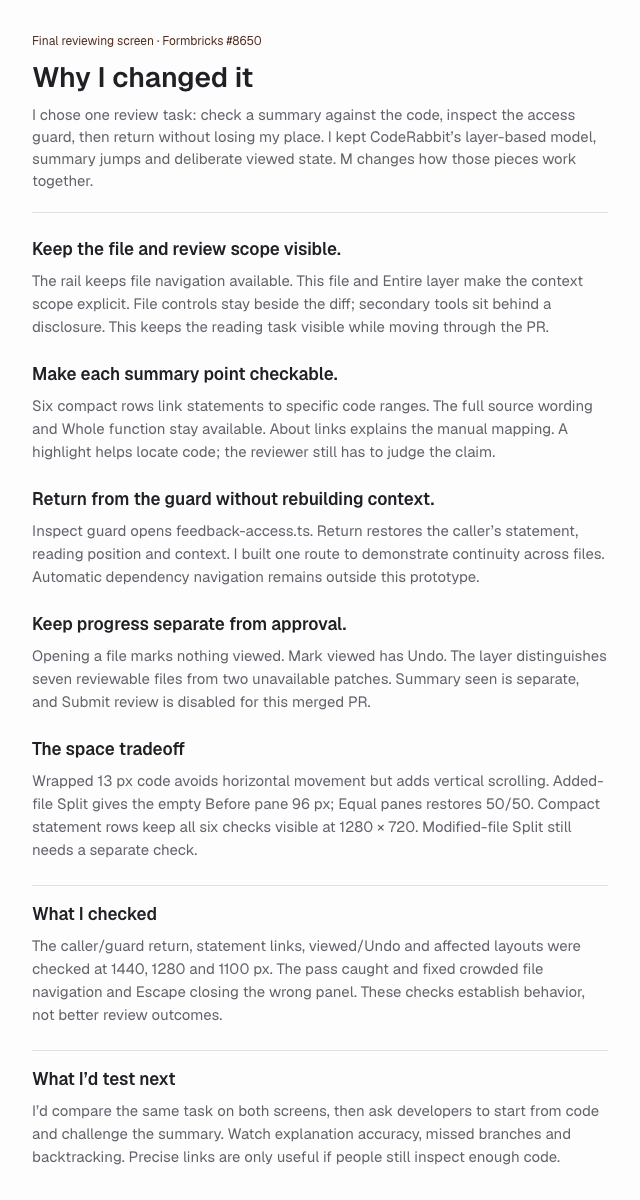
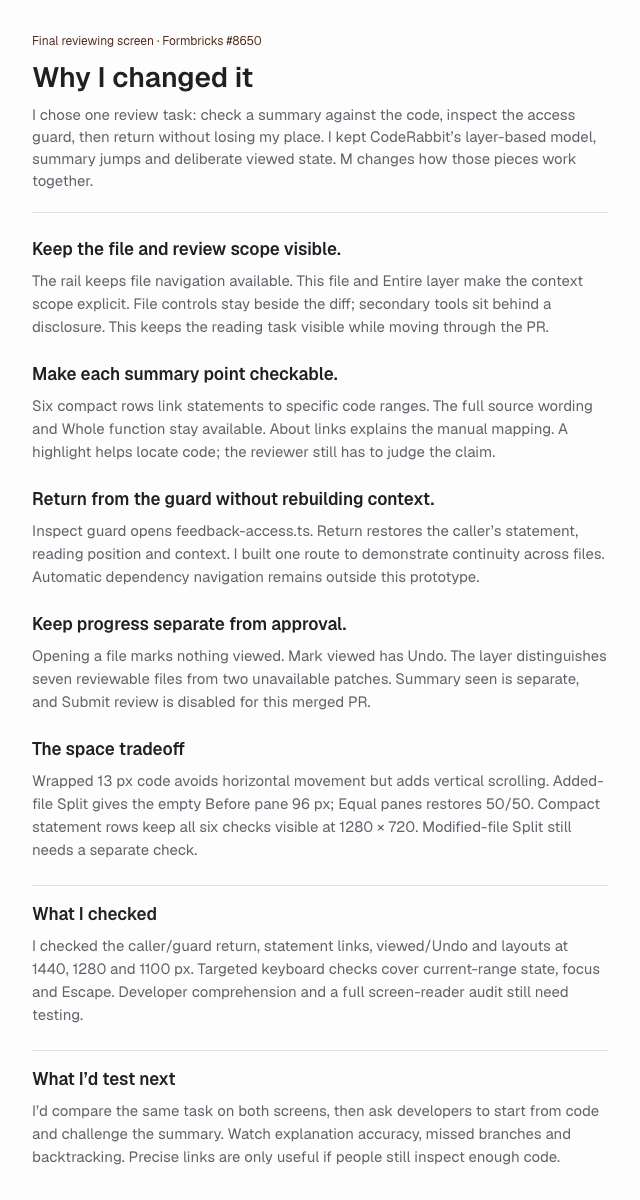
Expose linked code selection and reconcile submission evidence

Changed region(s): [[0.0312, 0.7708, 0.9375, 0.8633]]

diff --git a/dist/rationale.html b/dist/rationale.html
@@ -1,1 +1,1 @@
-<!doctype html><html lang="en"><head><meta charset="utf-8"><meta name="viewport" content="width=device-width,initial-scale=1"><title>Change Stack — Design rationale</title><link rel="stylesheet" href="styles.css?v=brand-20261019"><style>body{display:block;overflow:auto;height:auto;min-width:0;background:white}article{max-width:850px;margin:64px auto;padding:0 32px 48px}h1{white-space:normal;font-size:32px;line-height:1.2;letter-spacing:-.03em;font-weight:600}h2{font-size:18px;margin:28px 0 12px}p{margin:12px 0;line-height:1.6;color:#65616a}table{border-collapse:collapse;width:100%;font-size:14px;margin:20px 0}th{text-align:left;color:#211f24;font-weight:500;background:#faf8fb}td,th{padding:14px 16px;border-bottom:1px solid #e3e0e7;vertical-align:top}td:first-child{width:36%;font-weight:500;color:#211f24}nav{margin-bottom:24px}.byline{font-size:13px;color:#65616a;margin-top:16px}.small{font-size:12px}@media print{article{margin:0;padding:0}nav{display:none}h1{font-size:24px}body{font-size:12px}table{font-size:11px}td,th{padding:10px}h2{font-size:15px;margin:18px 0 8px}@page{size:A4;margin:18mm}}</style><link rel="stylesheet" href="brand.css?v=brand-20261019"></head><body><article><nav><a href="index.html">Prototype</a> · <a href="https://app.paper.design/file/01M5AQACJZP42ZGTRX7GF9ERE7/p-1-0/1YS-0">Paper design</a> · <a href="comparison.html">Original and redesign</a> · <a href="rationale.pdf">PDF</a></nav><h1>What I changed in Change Stack</h1><p class="byline">CodeRabbit Change Stack · Formbricks #8650 · Parth Pawar</p><p>I chose one review task: check a summary against the code, inspect the access guard, then return without losing my place. I kept CodeRabbit’s layer-based model, summary jumps and deliberate viewed state. M changes how those pieces work together.</p><table><thead><tr><th>What I focused on</th><th>Decision and reason</th></tr></thead><tbody><tr><td>Keep the file and review scope visible.</td><td>The rail keeps file navigation available. This file and Entire layer make the context scope explicit. File controls stay beside the diff; secondary tools sit behind a disclosure. This keeps the reading task visible while moving through the PR.</td></tr><tr><td>Make each summary point checkable.</td><td>Six compact rows link statements to specific code ranges. The full source wording and Whole function stay available. About links explains the manual mapping. A highlight helps locate code; the reviewer still has to judge the claim.</td></tr><tr><td>Return from the guard without rebuilding context.</td><td>Inspect guard opens feedback-access.ts. Return restores the caller’s statement, reading position and context. I built one route to demonstrate continuity across files. Automatic dependency navigation remains outside this prototype.</td></tr><tr><td>Keep progress separate from approval.</td><td>Opening a file marks nothing viewed. Mark viewed has Undo. The layer distinguishes seven reviewable files from two unavailable patches. Summary seen is separate, and Submit review is disabled for this merged PR.</td></tr></tbody></table><h2>The space tradeoff</h2><p>Wrapped 13 px code avoids horizontal movement but adds vertical scrolling. Added-file Split gives the empty Before pane 96 px; Equal panes restores 50/50. Compact statement rows keep all six checks visible at 1280 × 720. Modified-file Split still needs a separate check.</p><h2>What I checked</h2><p>The caller/guard return, statement links, viewed/Undo and affected layouts were checked at 1440, 1280 and 1100 px. The pass caught and fixed crowded file navigation and Escape closing the wrong panel. These checks establish behavior, not better review outcomes.</p><h2>What I’d test next</h2><p>I’d compare the same task on both screens, then ask developers to start from code and challenge the summary. Watch explanation accuracy, missed branches and backtracking. Precise links are only useful if people still inspect enough code.</p><p class="small">Formbricks #8650 at the out-of-date 23cdac2 snapshot. Seven of 52 diffs are included. The comparison uses final M with the same imports and six source points; the original capture is untouched. Full file and Captured ranges do not recreate semantic diffs. Nothing is sent.</p></article></body></html>
+<!doctype html><html lang="en"><head><meta charset="utf-8"><meta name="viewport" content="width=device-width,initial-scale=1"><title>Change Stack — Design rationale</title><link rel="stylesheet" href="styles.css?v=brand-20261019"><style>body{display:block;overflow:auto;height:auto;min-width:0;background:white}article{max-width:850px;margin:64px auto;padding:0 32px 48px}h1{white-space:normal;font-size:32px;line-height:1.2;letter-spacing:-.03em;font-weight:600}h2{font-size:18px;margin:28px 0 12px}p{margin:12px 0;line-height:1.6;color:#65616a}table{border-collapse:collapse;width:100%;font-size:14px;margin:20px 0}th{text-align:left;color:#211f24;font-weight:500;background:#faf8fb}td,th{padding:14px 16px;border-bottom:1px solid #e3e0e7;vertical-align:top}td:first-child{width:36%;font-weight:500;color:#211f24}nav{margin-bottom:24px}.byline{font-size:13px;color:#65616a;margin-top:16px}.small{font-size:12px}@media print{article{margin:0;padding:0}nav{display:none}h1{font-size:24px}body{font-size:12px}table{font-size:11px}td,th{padding:10px}h2{font-size:15px;margin:18px 0 8px}@page{size:A4;margin:18mm}}</style><link rel="stylesheet" href="brand.css?v=brand-20261019"></head><body><article><nav><a href="index.html">Prototype</a> · <a href="https://app.paper.design/file/01M5AQACJZP42ZGTRX7GF9ERE7/p-1-0/1YS-0">Paper design</a> · <a href="comparison.html">Original and redesign</a> · <a href="rationale.pdf">PDF</a></nav><h1>What I changed in Change Stack</h1><p class="byline">CodeRabbit Change Stack · Formbricks #8650 · Parth Pawar</p><p>I chose one review task: check a summary against the code, inspect the access guard, then return without losing my place. I kept CodeRabbit’s layer-based model, summary jumps and deliberate viewed state. M changes how those pieces work together.</p><table><thead><tr><th>What I focused on</th><th>Decision and reason</th></tr></thead><tbody><tr><td>Keep the file and review scope visible.</td><td>The rail keeps file navigation available. This file and Entire layer make the context scope explicit. File controls stay beside the diff; secondary tools sit behind a disclosure. This keeps the reading task visible while moving through the PR.</td></tr><tr><td>Make each summary point checkable.</td><td>Six compact rows link statements to specific code ranges. The full source wording and Whole function stay available. About links explains the manual mapping. A highlight helps locate code; the reviewer still has to judge the claim.</td></tr><tr><td>Return from the guard without rebuilding context.</td><td>Inspect guard opens feedback-access.ts. Return restores the caller’s statement, reading position and context. I built one route to demonstrate continuity across files. Automatic dependency navigation remains outside this prototype.</td></tr><tr><td>Keep progress separate from approval.</td><td>Opening a file marks nothing viewed. Mark viewed has Undo. The layer distinguishes seven reviewable files from two unavailable patches. Summary seen is separate, and Submit review is disabled for this merged PR.</td></tr></tbody></table><h2>The space tradeoff</h2><p>Wrapped 13 px code avoids horizontal movement but adds vertical scrolling. Added-file Split gives the empty Before pane 96 px; Equal panes restores 50/50. Compact statement rows keep all six checks visible at 1280 × 720. Modified-file Split still needs a separate check.</p><h2>What I checked</h2><p>I checked the caller/guard return, statement links, viewed/Undo and layouts at 1440, 1280 and 1100 px. Targeted keyboard checks cover current-range state, focus and Escape. Developer comprehension and a full screen-reader audit still need testing.</p><h2>What I’d test next</h2><p>I’d compare the same task on both screens, then ask developers to start from code and challenge the summary. Watch explanation accuracy, missed branches and backtracking. Precise links are only useful if people still inspect enough code.</p><p class="small">Formbricks #8650 at the out-of-date 23cdac2 snapshot. Seven of 52 diffs are included. The comparison uses final M with the same imports and six source points; the original capture is untouched. Full file and Captured ranges do not recreate semantic diffs. Nothing is sent.</p></article></body></html>

diff --git a/dist/app.js b/dist/app.js
@@ -126,7 +126,7 @@ function syncScope(){
 }
 function summaryCard(s,f){
  const selected=state.summary===s.id&&state.file===f.id,compact=state.scope==='layer',full=selected&&!compact&&s.sourceDetails;
- return `<div class="summary-card ${compact?'compact-summary':''}"><button class="summary-item" data-summary="${s.id}" aria-pressed="${selected}"><span class="range">Lines ${s.range} · ${s.complexity}</span><strong>${esc(s.title)}</strong>${full||compact?'':`<span class="summary-body">${esc(s.body)}</span>`}</button>${full?`<div class="statement-list">${anchorsFor(s).map((a,i)=>`<div class="source-statement ${anchorFor(s)?.key===a.key?'is-active':''}"><button class="statement-action source-anchor" data-evidence-summary="${s.id}" data-evidence-key="${a.key}" aria-label="${esc(a.label)}, ${lineLabel(a)}"><span>${esc(a.label)}</span><span class="statement-range">${lineLabel(a)}</span></button>${i===0?'<button class="text-link guard-link" data-action="inspect-guard">Inspect guard in feedback-access.ts</button>':''}</div>`).join('')}</div><details class="source-summary" data-detail-summary="${s.id}" ${state.openDetails.has(s.id)?'open':''}><summary>Read full source summary</summary><p>${esc(s.sourceDetails.intro)}</p><ul>${s.sourceDetails.points.map(p=>`<li>${esc(p)}</li>`).join('')}</ul></details>`:''}${selected&&!compact?anchorControls(s):''}${compact?'':`<button class="summary-seen text-link" data-seen="${s.id}" aria-pressed="${state.seen.has(s.id)}">${state.seen.has(s.id)?'Seen · undo':'Mark seen'}</button>`}</div>`
+ return `<div class="summary-card ${compact?'compact-summary':''}"><button class="summary-item" data-summary="${s.id}" aria-pressed="${selected}"><span class="range">Lines ${s.range} · ${s.complexity}</span><strong>${esc(s.title)}</strong>${full||compact?'':`<span class="summary-body">${esc(s.body)}</span>`}</button>${full?`<div class="statement-list">${anchorsFor(s).map((a,i)=>`<div class="source-statement ${anchorFor(s)?.key===a.key?'is-active':''}"><button class="statement-action source-anchor" data-evidence-summary="${s.id}" data-evidence-key="${a.key}" aria-current="${anchorFor(s)?.key===a.key?'location':'false'}" aria-label="${esc(a.label)}, ${lineLabel(a)}"><span>${esc(a.label)}</span><span class="statement-range">${lineLabel(a)}</span></button>${i===0?'<button class="text-link guard-link" data-action="inspect-guard">Inspect guard in feedback-access.ts</button>':''}</div>`).join('')}</div><details class="source-summary" data-detail-summary="${s.id}" ${state.openDetails.has(s.id)?'open':''}><summary>Read full source summary</summary><p>${esc(s.sourceDetails.intro)}</p><ul>${s.sourceDetails.points.map(p=>`<li>${esc(p)}</li>`).join('')}</ul></details>`:''}${selected&&!compact?anchorControls(s):''}${compact?'':`<button class="summary-seen text-link" data-seen="${s.id}" aria-pressed="${state.seen.has(s.id)}">${state.seen.has(s.id)?'Seen · undo':'Mark seen'}</button>`}</div>`
 }
 function renderSummaries(){
  syncScope();const f=currentFile(),list=$('#summary-list'),files=state.layer===0?(state.scope==='layer'?data.files:[f]):[],active=document.activeElement?.dataset,restore=active?.summary||active?.seen;
@@ -136,7 +136,7 @@ function renderSummaries(){
 }
 function anchorControls(summary){
  const anchors=anchorsFor(summary);
- return `<div class="summary-anchors">${!summary.sourceDetails?anchors.map(a=>`<button class="text-link source-anchor" data-evidence-summary="${summary.id}" data-evidence-key="${a.key}">${esc(a.label)} · ${lineLabel(a)}</button>`).join(''):''}<button class="text-link" data-evidence-summary="${summary.id}" data-evidence-key="whole">Whole ${summary.id.startsWith('0-')?'function':'summary range'} · L${summary.range}</button><button class="text-link" data-evidence-summary="${summary.id}" data-evidence-key="start">Go to start · L${summary.start}</button></div>`
+ return `<div class="summary-anchors">${!summary.sourceDetails?anchors.map(a=>`<button class="text-link source-anchor" data-evidence-summary="${summary.id}" data-evidence-key="${a.key}" aria-current="${anchorFor(summary)?.key===a.key?'location':'false'}">${esc(a.label)} · ${lineLabel(a)}</button>`).join(''):''}<button class="text-link" data-evidence-summary="${summary.id}" data-evidence-key="whole" aria-current="${anchorFor(summary)?.key==='whole'?'location':'false'}">Whole ${summary.id.startsWith('0-')?'function':'summary range'} · L${summary.range}</button><button class="text-link" data-evidence-summary="${summary.id}" data-evidence-key="start" aria-current="${anchorFor(summary)?.key==='start'?'location':'false'}">Go to start · L${summary.start}</button></div>`
 }
 function highlightCode(text){
  const tokens=/(\/\/.*$|^\s*\*.*$|\/\*.*$)|("(?:\\.|[^"\\])*"|'(?:\\.|[^'\\])*'|`(?:\\.|[^`\\])*`)|\b(import|from|export|type|const|let|async|await|function|return|if|else|throw|new|true|false|null|undefined|interface|describe|it|expect)\b/g;

diff --git a/docs/critical-design-decisions.md b/docs/critical-design-decisions.md
@@ -53,9 +53,13 @@ The original already had layers, summary jumps, explicit viewed state, J/K navig
 | Work | Reason and boundary |
 | --- | --- |
 | Wrapped 13px code and compact added-file Split | The empty Before pane uses 96px so the added code has room. Equal panes restores 50/50. Wrapping adds vertical scrolling. Modified-file patches are not demonstrated. |
-| Keyboard and recovery behavior | Statement activation restores focus; guard Return restores its entry point; Escape closes link help before the context overlay. Loading, retry, missing-patch and no-comments states have explicit exits. A complete assistive-technology audit remains outstanding. |
+| Keyboard and recovery behavior | Statement activation restores focus and exposes the current code range to assistive technology; guard Return restores its entry point; Escape closes link help before the context overlay. Loading, retry, missing-patch and no-comments states have explicit exits. A complete assistive-technology audit remains outstanding. |
 | Long filenames and secondary tools | The filename truncates before file navigation shrinks. The full name remains available. More review tools groups secondary previews; preview destinations are labeled before entry. |
 | Matched comparison | Both screens show the same seven imports and six source-summary points. The original capture is untouched. It checks content retention and hierarchy; it is not a timed usability result. |
+
+## What is observed, and what remains a hypothesis
+
+The source capture shows stacked file controls and a summary spanning L49–130. I can point to those directly. Losing orientation or backtracking more often is my interpretation of the review task; I have not measured it. The guard return is a proposed improvement, and deliberate viewed state is an existing capability I preserved. This distinction should stay clear in the video.
 
 ## What the evidence supports
 
@@ -64,6 +68,12 @@ The [verification record](verification.md) documents working interactions and te
 The fixture contains seven complete added-file diffs out of 52, nine layer-1 paths and fourteen of 37 layer summaries. Missing patches, uncaptured replies and secondary workflows are disclosed. No additional findings or PR content were invented to fill those gaps.
 
 My next test would use the same commit and content on both interfaces. First ask developers to explain the access check and inspect its guard. Then start from code and ask what could make them disagree with the summary. Record explanation accuracy, missed branches and backtracking. That counter-test matters because the current demonstration follows the path I designed to work well.
+
+## My submission decision
+
+Keep M. The strongest contribution is the short claim → code → guard → return sequence, supported by explicit scope and deliberate progress. The weakest demonstration is still the imports-only static comparison; use it to establish equal content, then move to the working task.
+
+Before production, I would test one modified-file review and the code-first counter-task. The rail’s nested scrolling, commit-aware link reliability and recovery after reload also need evaluation. These are recorded limits, not completed research. The last independent heuristic assessment is 32/40; this correction pass does not establish a higher score.
 
 ## Where this reasoning lives
 

diff --git a/docs/verification.md b/docs/verification.md
@@ -1,3 +1,19 @@
+# Critical rectification · October 23, 2026
+
+Paper was updated first. The diagnosis now separates visible source evidence from expected benefits, and the flow specifies current-range semantics for assistive technology. The rationale describes targeted keyboard checks without claiming a full screen-reader audit. Three affected PNG/JSX export pairs were refreshed.
+
+At 1280 × 720, live browser checks confirmed:
+
+- One `aria-current="location"` action matches the selected code range. Tested L57–65, L75, Whole function L49–130, the ownership summary, L164–175 and Go to start L156.
+- Enter retains focus on the selected action. Guard Return restores access.ts, L57–65 and focus on Inspect guard.
+- Visiting the guard leaves progress at 0/7. Mark viewed and Undo change it to 1/7 and back; both counts exclude the two unavailable patches.
+- The recording Markdown, generated two-page DOCX/PDF and existing Google Doc use the current seven-file progress cue. The generator now reads the maintained script instead of embedding a stale copy.
+- The one-page rationale and two-page recording PDF were rendered and inspected. JavaScript syntax and Git whitespace checks pass.
+
+This was a bounded correction pass, not another independent score. The last assessment remains 32/40. A code-first developer test, a representative modified-file case and a full assistive-technology audit remain open. Nothing was sent to CodeRabbit.
+
+---
+
 # Current compact-review verification · October 23, 2026
 
 Paper was updated before the prototype. Seven affected PNG/JSX pairs were refreshed: main, matched comparison, rationale, flow, Focus, Split and guard. The one-page rationale PDF was rendered and inspected; Paper and PDF use the same revised reasoning. Earlier verification entries below are historical.
